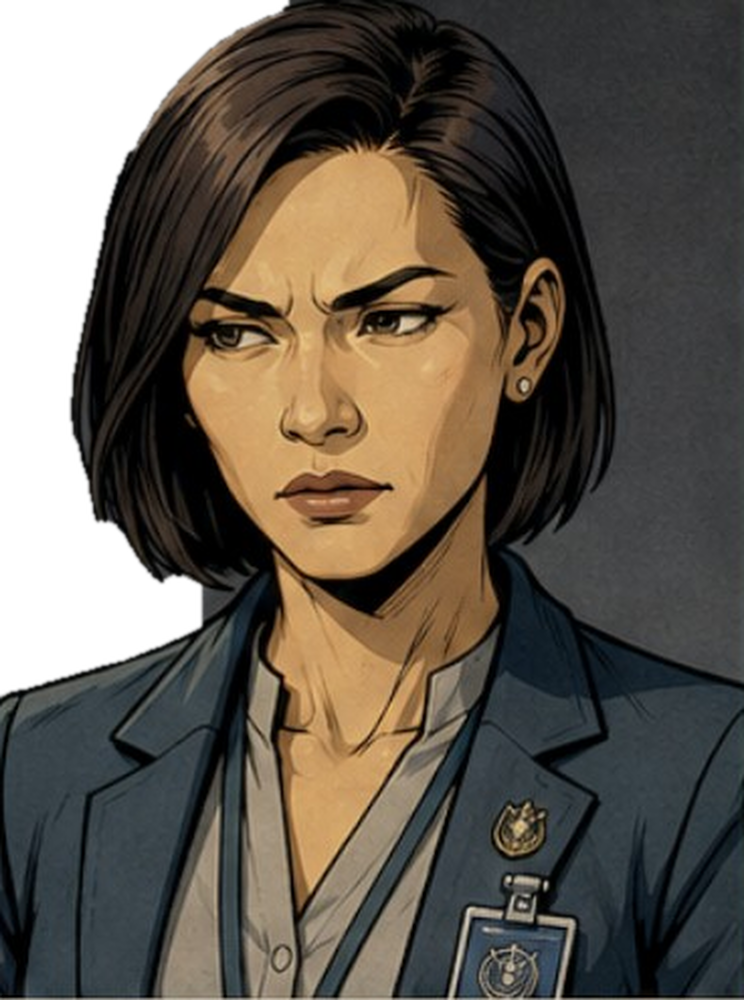
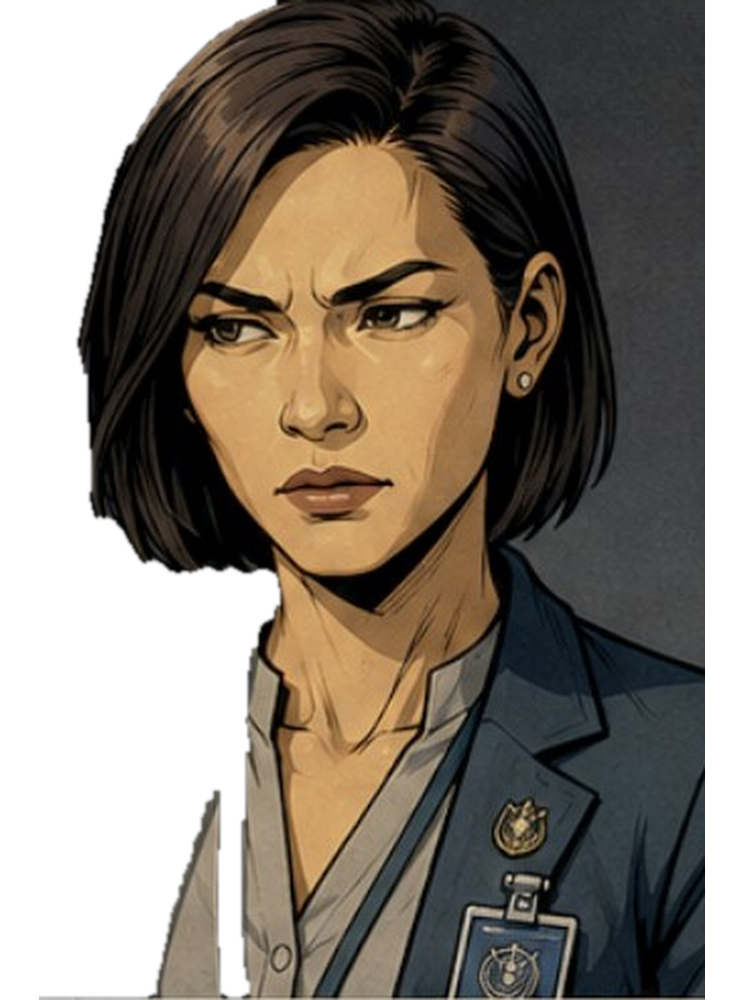
Add files via upload

diff --git a/js/chapters/chapter-04/02-jakarta-arrival.js b/js/chapters/chapter-04/02-jakarta-arrival.js
@@ -1,9 +1,9 @@
-/* LAST WITNESS — Chapter IV / Phase II: JAKARTA ARRIVAL 0.14.0 */
+/* LAST WITNESS — Chapter IV / Phase II: JAKARTA ARRIVAL 0.14.1 */
 (function(){
 "use strict";
-if(window.LastWitnessChapter4Phase2?.version==="0.14.0")return;
+if(window.LastWitnessChapter4Phase2?.version==="0.14.1")return;
 
-const BUILD="0.14.0";
+const BUILD="0.14.1";
 const FLIGHT="jakartaFlight";
 const AIRPORT="jakartaAirport";
 const OFFICE="jakartaCybercrimeOffice";
@@ -77,10 +77,10 @@ function syncAudio(){
  [arrival,verify,airport,airportBase,office,officeBase].forEach(a=>{if(a)a.loop=true});
  fade(arrival,enabled&&(inFlight||inAirport||inOffice)?music*.34*dialogueDuck*overlayDuck:0,screen===FLIGHT?700:400);
  fade(verify,enabled&&(inLab||inComplete)?music*.31*dialogueDuck*overlayDuck*(inComplete?.58:1):0,460);
- fade(airport,enabled&&inAirport?music*.68*dialogueDuck:0,430);
- fade(airportBase,enabled&&inAirport?music*.12*dialogueDuck:0,430);
- fade(office,enabled&&(inOffice||inLab)?music*(inLab?.60:.72)*dialogueDuck*overlayDuck:0,430);
- fade(officeBase,enabled&&(inOffice||inLab)?music*(inLab?.08:.10)*dialogueDuck*overlayDuck:0,430)
+ fade(airport,enabled&&inAirport?music*.40*dialogueDuck:0,430);
+ fade(airportBase,enabled&&inAirport?music*.05*dialogueDuck:0,430);
+ fade(office,enabled&&(inOffice||inLab)?music*(inLab?.28:.42)*dialogueDuck*overlayDuck:0,430);
+ fade(officeBase,enabled&&(inOffice||inLab)?music*(inLab?.04:.06)*dialogueDuck*overlayDuck:0,430)
 }
 function stopAudio(reset=false){
  clearTimeout(flightTimer);clearTimeout(transitionTimer);flightTimer=transitionTimer=0;
@@ -185,7 +185,7 @@ function labObjective(){const p=ensure();if(!p?.verificationStarted)return tr("V
 
 function installPortraits(){
  const maya={
-  neutral:MAYA_BASE+"neutral.png?v=0140",focused:MAYA_BASE+"focused.png?v=0140",skeptical:MAYA_BASE+"skeptical.png?v=0140",analytical:MAYA_BASE+"analytical.png?v=0140",authoritative:MAYA_BASE+"authoritative.png?v=0140",questioning:MAYA_BASE+"questioning.png?v=0140",restrained_approval:MAYA_BASE+"restrained-approval.png?v=0140",calm_professional:MAYA_BASE+"calm-professional.png?v=0140",alert:MAYA_BASE+"alert.png?v=0140",decisive:MAYA_BASE+"decisive.png?v=0140",guarded:MAYA_BASE+"guarded.png?v=0140",softened_respect:MAYA_BASE+"softened-respect.png?v=0140",serious:MAYA_BASE+"focused.png?v=0140"
+  neutral:MAYA_BASE+"neutral.png?v=0141",focused:MAYA_BASE+"focused.png?v=0141",skeptical:MAYA_BASE+"skeptical.png?v=0141",analytical:MAYA_BASE+"analytical.png?v=0141",authoritative:MAYA_BASE+"authoritative.png?v=0141",questioning:MAYA_BASE+"questioning.png?v=0141",restrained_approval:MAYA_BASE+"restrained-approval.png?v=0141",calm_professional:MAYA_BASE+"calm-professional.png?v=0141",alert:MAYA_BASE+"alert.png?v=0141",decisive:MAYA_BASE+"decisive.png?v=0141",guarded:MAYA_BASE+"guarded.png?v=0141",softened_respect:MAYA_BASE+"softened-respect.png?v=0141",serious:MAYA_BASE+"focused.png?v=0141"
  };
  try{PORTRAITS["Inspector Maya Pranoto"]=maya;PORTRAITS["สารวัตร Maya Pranoto"]=maya;PORTRAITS["Maya Pranoto"]=maya}catch(_){}
 }
@@ -194,7 +194,7 @@ function mayaData(){return{
  role:{en:"Indonesian National Police Cybercrime Liaison",th:"ผู้ประสานงานตำรวจไซเบอร์อินโดนีเซีย"},
  status:{en:"Jurisdictional Partner",th:"พันธมิตรด้านเขตอำนาจ"},
  bio:{en:"A disciplined Indonesian cybercrime liaison who understands local infrastructure and refuses to collapse route, tool, operator and decision ownership into one conclusion.",th:"ผู้ประสานงานตำรวจไซเบอร์อินโดนีเซียผู้มีวินัย เข้าใจโครงสร้างพื้นฐานในพื้นที่ และไม่ยอมรวมเส้นทาง เครื่องมือ ผู้ใช้งาน และเจ้าของการตัดสินใจให้เป็นข้อสรุปเดียว"},
- src:MAYA_BASE+"profile.png?v=0140",relation:{value:61},metrics:[
+ src:MAYA_BASE+"profile.png?v=0141",relation:{value:61},metrics:[
   {key:"trust",label:{en:"Trust",th:"ความไว้วางใจ"},value:48},{key:"respect",label:{en:"Professional Respect",th:"ความนับถือทางวิชาชีพ"},value:66},{key:"rapport",label:{en:"Rapport",th:"ความคุ้นเคย"},value:8},{key:"suspicion",label:{en:"Suspicion",th:"ความสงสัย"},value:20}
  ]
 }}
@@ -233,20 +233,20 @@ function installJournalExtension(){
  grid?.addEventListener("click",event=>{const card=event.target.closest?.('[data-character="maya"]');if(!card)return;event.preventDefault();event.stopPropagation();showMayaDetail()});
  if(journalObserver)journalObserver.disconnect();journalObserver=new MutationObserver(()=>{renderMayaCard();if(modal?.classList.contains("open")){markMayaRead();renderMayaCard()}});
  if(modal)journalObserver.observe(modal,{attributes:true,attributeFilter:["class"],subtree:true,childList:true});
- if(screenObserver)screenObserver.disconnect();screenObserver=new MutationObserver(()=>setTimeout(syncMayaDot,0));$$('.screen').forEach(screen=>screenObserver.observe(screen,{attributes:true,attributeFilter:["class"]}));
+ if(screenObserver)screenObserver.disconnect();screenObserver=new MutationObserver(()=>setTimeout(()=>{syncMayaDot();if(!SCREENS.has(active()))stopAudio(true);else syncAudio()},0));$$('.screen').forEach(screen=>screenObserver.observe(screen,{attributes:true,attributeFilter:["class"]}));
  renderMayaCard();syncMayaDot()
 }
 
-function injectStyle(){if($("#lwChapter04Phase02Style"))return;const link=document.createElement("link");link.id="lwChapter04Phase02Style";link.rel="stylesheet";link.href="css/chapter-04-phase-02.css?v=0140";document.head.appendChild(link)}
-function audioMarkup(){return `<audio id="ch4P2ArrivalScore" preload="auto" loop><source src="${AUDIO_BASE}jakarta-arrival-loop.webm?v=0140" type="audio/webm"><source src="${AUDIO_BASE}jakarta-arrival-loop.mp3?v=0140" type="audio/mpeg"></audio><audio id="ch4P2VerificationScore" preload="auto" loop><source src="${AUDIO_BASE}token-verification-loop.webm?v=0140" type="audio/webm"><source src="${AUDIO_BASE}token-verification-loop.mp3?v=0140" type="audio/mpeg"></audio><audio id="ch4P2AirportAmbience" preload="auto" loop><source src="${AUDIO_BASE}jakarta-airport-ops-loop.webm?v=0140" type="audio/webm"><source src="${AUDIO_BASE}jakarta-airport-ops-loop.mp3?v=0140" type="audio/mpeg"></audio><audio id="ch4P2AirportFieldBase" preload="auto" loop src="assets/audio/chapter-03/phase-03/changi-airport-ambience.mp3?v=0800"></audio><audio id="ch4P2OfficeAmbience" preload="auto" loop><source src="${AUDIO_BASE}jakarta-cybercrime-office-loop.webm?v=0140" type="audio/webm"><source src="${AUDIO_BASE}jakarta-cybercrime-office-loop.mp3?v=0140" type="audio/mpeg"></audio><audio id="ch4P2OfficeFieldBase" preload="auto" loop src="assets/audio/chapter-03/phase-04/singapore-investigation-office-ambience.mp3?v=0920"></audio>`}
+function injectStyle(){if($("#lwChapter04Phase02Style"))return;const link=document.createElement("link");link.id="lwChapter04Phase02Style";link.rel="stylesheet";link.href="css/chapter-04-phase-02.css?v=0141";document.head.appendChild(link)}
+function audioMarkup(){return `<audio id="ch4P2ArrivalScore" preload="auto" loop><source src="${AUDIO_BASE}jakarta-arrival-loop.webm?v=0141" type="audio/webm"><source src="${AUDIO_BASE}jakarta-arrival-loop.mp3?v=0141" type="audio/mpeg"></audio><audio id="ch4P2VerificationScore" preload="auto" loop><source src="${AUDIO_BASE}token-verification-loop.webm?v=0141" type="audio/webm"><source src="${AUDIO_BASE}token-verification-loop.mp3?v=0141" type="audio/mpeg"></audio><audio id="ch4P2AirportAmbience" preload="auto" loop><source src="${AUDIO_BASE}jakarta-airport-ops-loop.webm?v=0141" type="audio/webm"><source src="${AUDIO_BASE}jakarta-airport-ops-loop.mp3?v=0141" type="audio/mpeg"></audio><audio id="ch4P2AirportFieldBase" preload="auto" loop src="assets/audio/chapter-03/phase-03/changi-airport-ambience.mp3?v=0800"></audio><audio id="ch4P2OfficeAmbience" preload="auto" loop><source src="${AUDIO_BASE}jakarta-cybercrime-office-loop.webm?v=0141" type="audio/webm"><source src="${AUDIO_BASE}jakarta-cybercrime-office-loop.mp3?v=0141" type="audio/mpeg"></audio><audio id="ch4P2OfficeFieldBase" preload="auto" loop src="assets/audio/chapter-03/phase-04/singapore-investigation-office-ambience.mp3?v=0920"></audio>`}
 function sharedScene(id,classes,image,alt){return `<section id="${id}" class="screen ch4-p2-screen ${classes}"><img class="scene" src="${image}" alt="${alt}"><div class="overlay ch4-p2-overlay"></div><div class="topbar"><span id="${id}Location"></span><div class="hud"><button class="icon ch4-p2-save" type="button">💾</button><button class="icon ch4-p2-menu" type="button">☰<i class="journal-alert" aria-hidden="true"></i></button></div></div><div id="${id}Scene" class="ch4-p2-label"></div><div id="${id}Objective" class="ch4-p2-objective"></div><div id="${id}Dialogue" class="dialogue ch4-p2-dialogue hidden"></div><button id="${id}Action" class="primary ch4-p2-action" type="button" hidden></button><div class="ch4-p2-progress"><span class="ch4-p2-progress-text">0%</span><div><i class="ch4-p2-progress-fill"></i></div></div></section>`}
 function inject(){
  if($("#"+FLIGHT))return;const game=$("#game");if(!game)return;
  game.insertAdjacentHTML("beforeend",`
  <section id="${FLIGHT}" class="screen ch4-p2-flight"><video id="ch4P2FlightVideo" poster="${TAKEOFF_POSTER}" preload="auto" playsinline muted><source src="${TAKEOFF_VIDEO}" type="video/mp4"></video><div class="ch4-p2-flight-shade"></div><div class="ch4-p2-flight-head"><span id="ch4P2FlightHead"></span><span id="ch4P2FlightStatus"></span></div><div id="ch4P2FlightRoute" class="ch4-p2-flight-route"><div id="ch4P2RouteEye" class="eyebrow"></div><h2 id="ch4P2RouteTitle"></h2><div class="ch4-p2-route-grid"><div><span id="ch4P2DepartLabel"></span><strong>SINGAPORE<br>23:20 SGT</strong></div><div class="ch4-p2-route-arrow">→</div><div><span id="ch4P2ArriveLabel"></span><strong>JAKARTA<br>00:10 WIB</strong></div></div><p id="ch4P2FlightTime"></p><button id="ch4P2RouteContinue" class="primary" type="button"></button></div><button id="ch4P2Skip" class="ghost ch4-p2-skip" type="button"></button></section>
- ${sharedScene(AIRPORT,"ch4-p2-airport",BASE+"jakarta-airport-operations-corridor.png?v=0140","Jakarta airport operations corridor at night")}
- ${sharedScene(OFFICE,"ch4-p2-office",BASE+"jakarta-cybercrime-office.png?v=0140","Jakarta cybercrime operations office")}
- ${sharedScene(LAB,"ch4-p2-lab",BASE+"jakarta-verification-lab.png?v=0140","Jakarta verification laboratory")}
+ ${sharedScene(AIRPORT,"ch4-p2-airport",BASE+"jakarta-airport-operations-corridor.png?v=0141","Jakarta airport operations corridor at night")}
+ ${sharedScene(OFFICE,"ch4-p2-office",BASE+"jakarta-cybercrime-office.png?v=0141","Jakarta cybercrime operations office")}
+ ${sharedScene(LAB,"ch4-p2-lab",BASE+"jakarta-verification-lab.png?v=0141","Jakarta verification laboratory")}
  <section id="${COMPLETE}" class="screen ch4-p2-complete"><div class="ch4-p2-complete-card"><div id="ch4P2CompleteEye" class="eyebrow"></div><h2 id="ch4P2CompleteTitle"></h2><div class="ch4-p2-rule"></div><p id="ch4P2CompleteBody"></p><div class="ch4-p2-complete-grid"><div><span>TOKEN</span><b>GENUINE · SINGLE USE</b></div><div><span>BROKER ROUTE</span><b>JAKARTA-LINKED</b></div><div><span>ATTRIBUTION ROLE</span><b>NORTH</b></div><div><span>HUMAN IDENTITY</span><b>UNRESOLVED</b></div></div><strong id="ch4P2Next"></strong><button id="ch4P2ReturnTitle" class="primary" type="button"></button></div></section>
  <div id="ch4P2Choice" class="modal ch4-p2-choice" aria-hidden="true"><div class="modal-card"><div class="eyebrow">BENEDICT · OPERATIONAL PRINCIPLE</div><h3 id="ch4P2ChoiceTitle"></h3><button type="button" data-ch4-p2-choice="tool"></button><button type="button" data-ch4-p2-choice="jurisdiction"></button><button type="button" data-ch4-p2-choice="trap"></button></div></div>
  <div id="ch4P2Console" class="modal ch4-p2-console" aria-hidden="true"><div class="modal-card"><header><div><div id="ch4P2ConsoleEye" class="eyebrow"></div><h3 id="ch4P2ConsoleTitle"></h3></div><button id="ch4P2ConsoleClose" class="ghost" type="button">×</button></header><div class="ch4-p2-console-readout"><span>TOKEN STATE</span><strong id="ch4P2TokenState">PRESERVED · SINGLE USE</strong><span>NETWORK</span><b id="ch4P2NetworkState">DISCONNECTED</b><span>ATTRIBUTION</span><b id="ch4P2AttributionState">UNRESOLVED</b></div><div id="ch4P2ConsoleLog" class="ch4-p2-console-log"></div><div id="ch4P2ConsoleActions" class="ch4-p2-console-actions">${["preserve_hash","clone_sandbox","passive_challenge","compare_grammar","open_live","trace_responder"].map(id=>`<button type="button" data-verify-action="${id}"></button>`).join("")}</div><div id="ch4P2ConsoleStatus" class="ch4-p2-console-status" aria-live="polite"></div></div></div>
@@ -349,7 +349,7 @@ function startDebrief(){const p=ensure();if(p.closingDialogueComplete||dialogue)
 function completePhase(){const p=ensure();p.closingDialogueComplete=true;p.complete=true;p.stage="complete";setCheckpoint("ch4_phase2_complete");setProgress(100);paint();save();transitionTimer=setTimeout(showComplete,480)}
 function showComplete(){const p=ensure();p.complete=true;p.stage="complete";gs().chapter=4;gs().screen=COMPLETE;setProgress(100);safeShow(COMPLETE);updateLanguage();save()}
 function closeAll(){choiceOpen=consoleOpen=false;["ch4P2Choice","ch4P2Console"].forEach(id=>{$("#"+id)?.classList.remove("open");$("#"+id)?.setAttribute("aria-hidden","true")});const box=dialogueBox();box?.classList.add("hidden");dialogue=null}
-function returnToTitle(){stopAudio(true);closeAll();try{save()}catch(_){};try{window.LastWitnessChapter2Integration?.returnToTitle?.()}catch(_){$$('.screen').forEach(n=>n.classList.remove('active'));$("#title")?.classList.add('active');if(gs())gs().screen="title"}}
+function returnToTitle(){stopAudio(true);stopForeignAudio();closeAll();try{save()}catch(_){};try{window.LastWitnessChapter2Integration?.returnToTitle?.()}catch(_){$$('.screen').forEach(n=>n.classList.remove('active'));$("#title")?.classList.add('active');if(gs())gs().screen="title"}setTimeout(()=>{if(!SCREENS.has(active()))stopAudio(true)},0)}
 function resetPhase2(){const s=gs();if(!s)return;s.chapter4=s.chapter4||{};s.chapter4.phase2={started:false,flightComplete:false,routeCardSeen:false,airportIntroComplete:false,mayaUnlocked:false,mayaUnread:false,officeIntroComplete:false,choiceMade:false,choiceKey:"",choiceApplied:false,legalBriefComplete:false,verificationStarted:false,verificationSteps:[],consoleWarnings:0,verificationComplete:false,evidenceCollected:[],closingDialogueComplete:false,complete:false,stage:"flight"};["ch4_maya_met","ch4_p2_tool_not_city","ch4_p2_jurisdiction_first","ch4_p2_route_identity_trap","ch4_token_genuine","ch4_token_single_use","ch4_jakarta_broker_route","ch4_north_role_recognised","ch4_human_attribution_unresolved"].forEach(k=>delete s.flags[k]);try{s.found?.delete?.("ch4_verified_rendezvous_token");s.found?.delete?.("ch4_broker_response_capture")}catch(_){} }
 function startFreshForDev(){stopAudio(true);closeAll();primePhase1CompleteForDev();resetPhase2();startFromPhase1()}
 function jumpVerificationForDev(){stopAudio(true);closeAll();primePhase1CompleteForDev();resetPhase2();const p=ensure();p.started=true;p.flightComplete=true;p.routeCardSeen=true;p.airportIntroComplete=true;p.mayaUnlocked=true;p.officeIntroComplete=true;p.choiceMade=true;p.choiceKey="jurisdiction";p.choiceApplied=true;p.legalBriefComplete=true;p.stage="lab";gs().flags.ch4_maya_met=true;unlockMaya();enterLab()}
@@ -364,7 +364,7 @@ function appendCaseEvidence(){
 }
 function setBuild(){const label=$("#settingsVersion");if(label)label.textContent=`LAST WITNESS · BUILD ${BUILD}`;if(window.LastWitnessSaveManager)window.LastWitnessSaveManager.version=BUILD}
 function installSaveBridge(){
- if(window.__lwChapter4Phase2SaveBridge0140)return;window.__lwChapter4Phase2SaveBridge0140=true;
+ if(window.__lwChapter4Phase2SaveBridge0141)return;window.__lwChapter4Phase2SaveBridge0141=true;
  const baseRestore=typeof restore==="function"?restore:window.restore;
  if(typeof baseRestore==="function"){
   const wrapped=function(data){stopAudio(true);const result=baseRestore.apply(this,arguments);if(SCREENS.has(String(data?.screen||""))){const s=gs();if(s)s.chapter4=clone(data?.chapter4||s.chapter4||{});setTimeout(()=>resumeFromState(data.screen),170)}return result};
@@ -387,7 +387,7 @@ function resumeFromState(screen){
 }
 function installDevJumps(){
  const grid=$("#developerModal .dev-grid");if(!grid)return;
- const add=(key,label,handler)=>{let b=grid.querySelector(`[data-dev-jump="${key}"]`);if(!b){b=document.createElement("button");b.className="dev-button";b.type="button";b.dataset.devJump=key;grid.appendChild(b)}b.textContent=label;if(b.dataset.lwBound0140==="1")return;b.dataset.lwBound0140="1";b.addEventListener("click",event=>{event.preventDefault();event.stopPropagation();event.stopImmediatePropagation();$("#developerModal")?.classList.remove("open");handler()},true)};
+ const add=(key,label,handler)=>{let b=grid.querySelector(`[data-dev-jump="${key}"]`);if(!b){b=document.createElement("button");b.className="dev-button";b.type="button";b.dataset.devJump=key;grid.appendChild(b)}b.textContent=label;if(b.dataset.lwBound0141==="1")return;b.dataset.lwBound0141="1";b.addEventListener("click",event=>{event.preventDefault();event.stopPropagation();event.stopImmediatePropagation();$("#developerModal")?.classList.remove("open");handler()},true)};
  add("chapter4Phase2",tr("Chapter IV · Phase II · Jakarta Arrival","บทที่ IV · เฟส II · เดินทางถึง Jakarta"),startFreshForDev);
  add("chapter4Phase2Verification",tr("Chapter IV · Phase II · Token Verification","บทที่ IV · เฟส II · ตรวจสอบ Token"),jumpVerificationForDev)
 }

diff --git a/css/chapter-04-phase-02.css b/css/chapter-04-phase-02.css
@@ -1,4 +1,4 @@
-/* LAST WITNESS — Chapter IV / Phase II: JAKARTA ARRIVAL 0.14.0 */
+/* LAST WITNESS — Chapter IV / Phase II: JAKARTA ARRIVAL 0.14.1 */
 .ch4-p2-screen{display:none;background:#05070a;color:#f5efe6;overflow:hidden}
 .ch4-p2-screen.active{display:block}
 .ch4-p2-screen>.scene{object-position:center center;filter:saturate(.82) contrast(1.045) brightness(.72)}
@@ -61,8 +61,8 @@
 .ch4-p2-complete-card>p{margin:0 auto 17px;max-width:48ch;color:#c4cbce;font-size:14px;line-height:1.62}
 .ch4-p2-complete-grid{display:grid;grid-template-columns:1fr 1fr;gap:8px;margin:17px 0}.ch4-p2-complete-grid div{padding:12px 8px;border:1px solid rgba(255,255,255,.10);background:rgba(255,255,255,.035)}.ch4-p2-complete-grid span{display:block;color:#85939a;font-size:9px;letter-spacing:.10em}.ch4-p2-complete-grid b{display:block;margin-top:5px;color:#e6d3ae;font-size:11.5px;line-height:1.3}.ch4-p2-complete-card>strong{display:block;margin:18px 0;color:#ddb56d;font-size:12px;letter-spacing:.09em}.ch4-p2-complete-card>button{width:min(100%,315px)}
 
-.character-card[data-character="maya"] img{object-fit:contain!important;object-position:center bottom!important;background:linear-gradient(160deg,#1a2026,#090b0f);filter:drop-shadow(0 5px 8px rgba(0,0,0,.42))}
-[data-detail-image="maya"]{object-fit:contain!important;object-position:center bottom!important;background:linear-gradient(160deg,#1a2026,#090b0f)}
+.character-card[data-character="maya"] img{object-fit:cover!important;object-position:center 16%!important;transform:scale(1.16);transform-origin:center top;background:linear-gradient(160deg,#1a2026,#090b0f);filter:drop-shadow(0 5px 8px rgba(0,0,0,.42))}
+[data-detail-image="maya"]{object-fit:cover!important;object-position:center 16%!important;transform:scale(1.14);transform-origin:center top;background:linear-gradient(160deg,#1a2026,#090b0f)}
 
 html[lang="th"] .ch4-p2-label,html[lang="th"] .ch4-p2-flight-head,html[lang="th"] .ch4-p2-complete-card h2{letter-spacing:.018em}
 html[lang="th"] .ch4-p2-choice button,html[lang="th"] .ch4-p2-console-actions button{letter-spacing:0}

diff --git a/js/engine/09-defect-hotfix.js b/js/engine/09-defect-hotfix.js
@@ -1,4 +1,4 @@
-/* LAST WITNESS — Legacy Compatibility Shim + Chapter IV Bootstrap 0.14.0
+/* LAST WITNESS — Legacy Compatibility Shim + Chapter IV Bootstrap 0.14.1
  * Historical repair logic remains consolidated elsewhere. This file installs no
  * repair listeners or polling loops. It only loads the approved Chapter IV
  * modules once, in deterministic narrative order.
@@ -18,6 +18,6 @@ function script(src,id,ready){
 }
 
 script("js/chapters/chapter-04/01-afterimage.js?v=0132","lwChapter04Phase01Script",()=>Boolean(window.LastWitnessChapter4Phase1))
- .then(()=>{stylesheet("css/chapter-04-phase-02.css?v=0140","lwChapter04Phase02Style");return script("js/chapters/chapter-04/02-jakarta-arrival.js?v=0140","lwChapter04Phase02Script",()=>Boolean(window.LastWitnessChapter4Phase2))})
+ .then(()=>{stylesheet("css/chapter-04-phase-02.css?v=0141","lwChapter04Phase02Style");return script("js/chapters/chapter-04/02-jakarta-arrival.js?v=0141","lwChapter04Phase02Script",()=>Boolean(window.LastWitnessChapter4Phase2))})
  .catch(error=>console.error("LAST WITNESS Chapter IV bootstrap failed",error));
 })();
